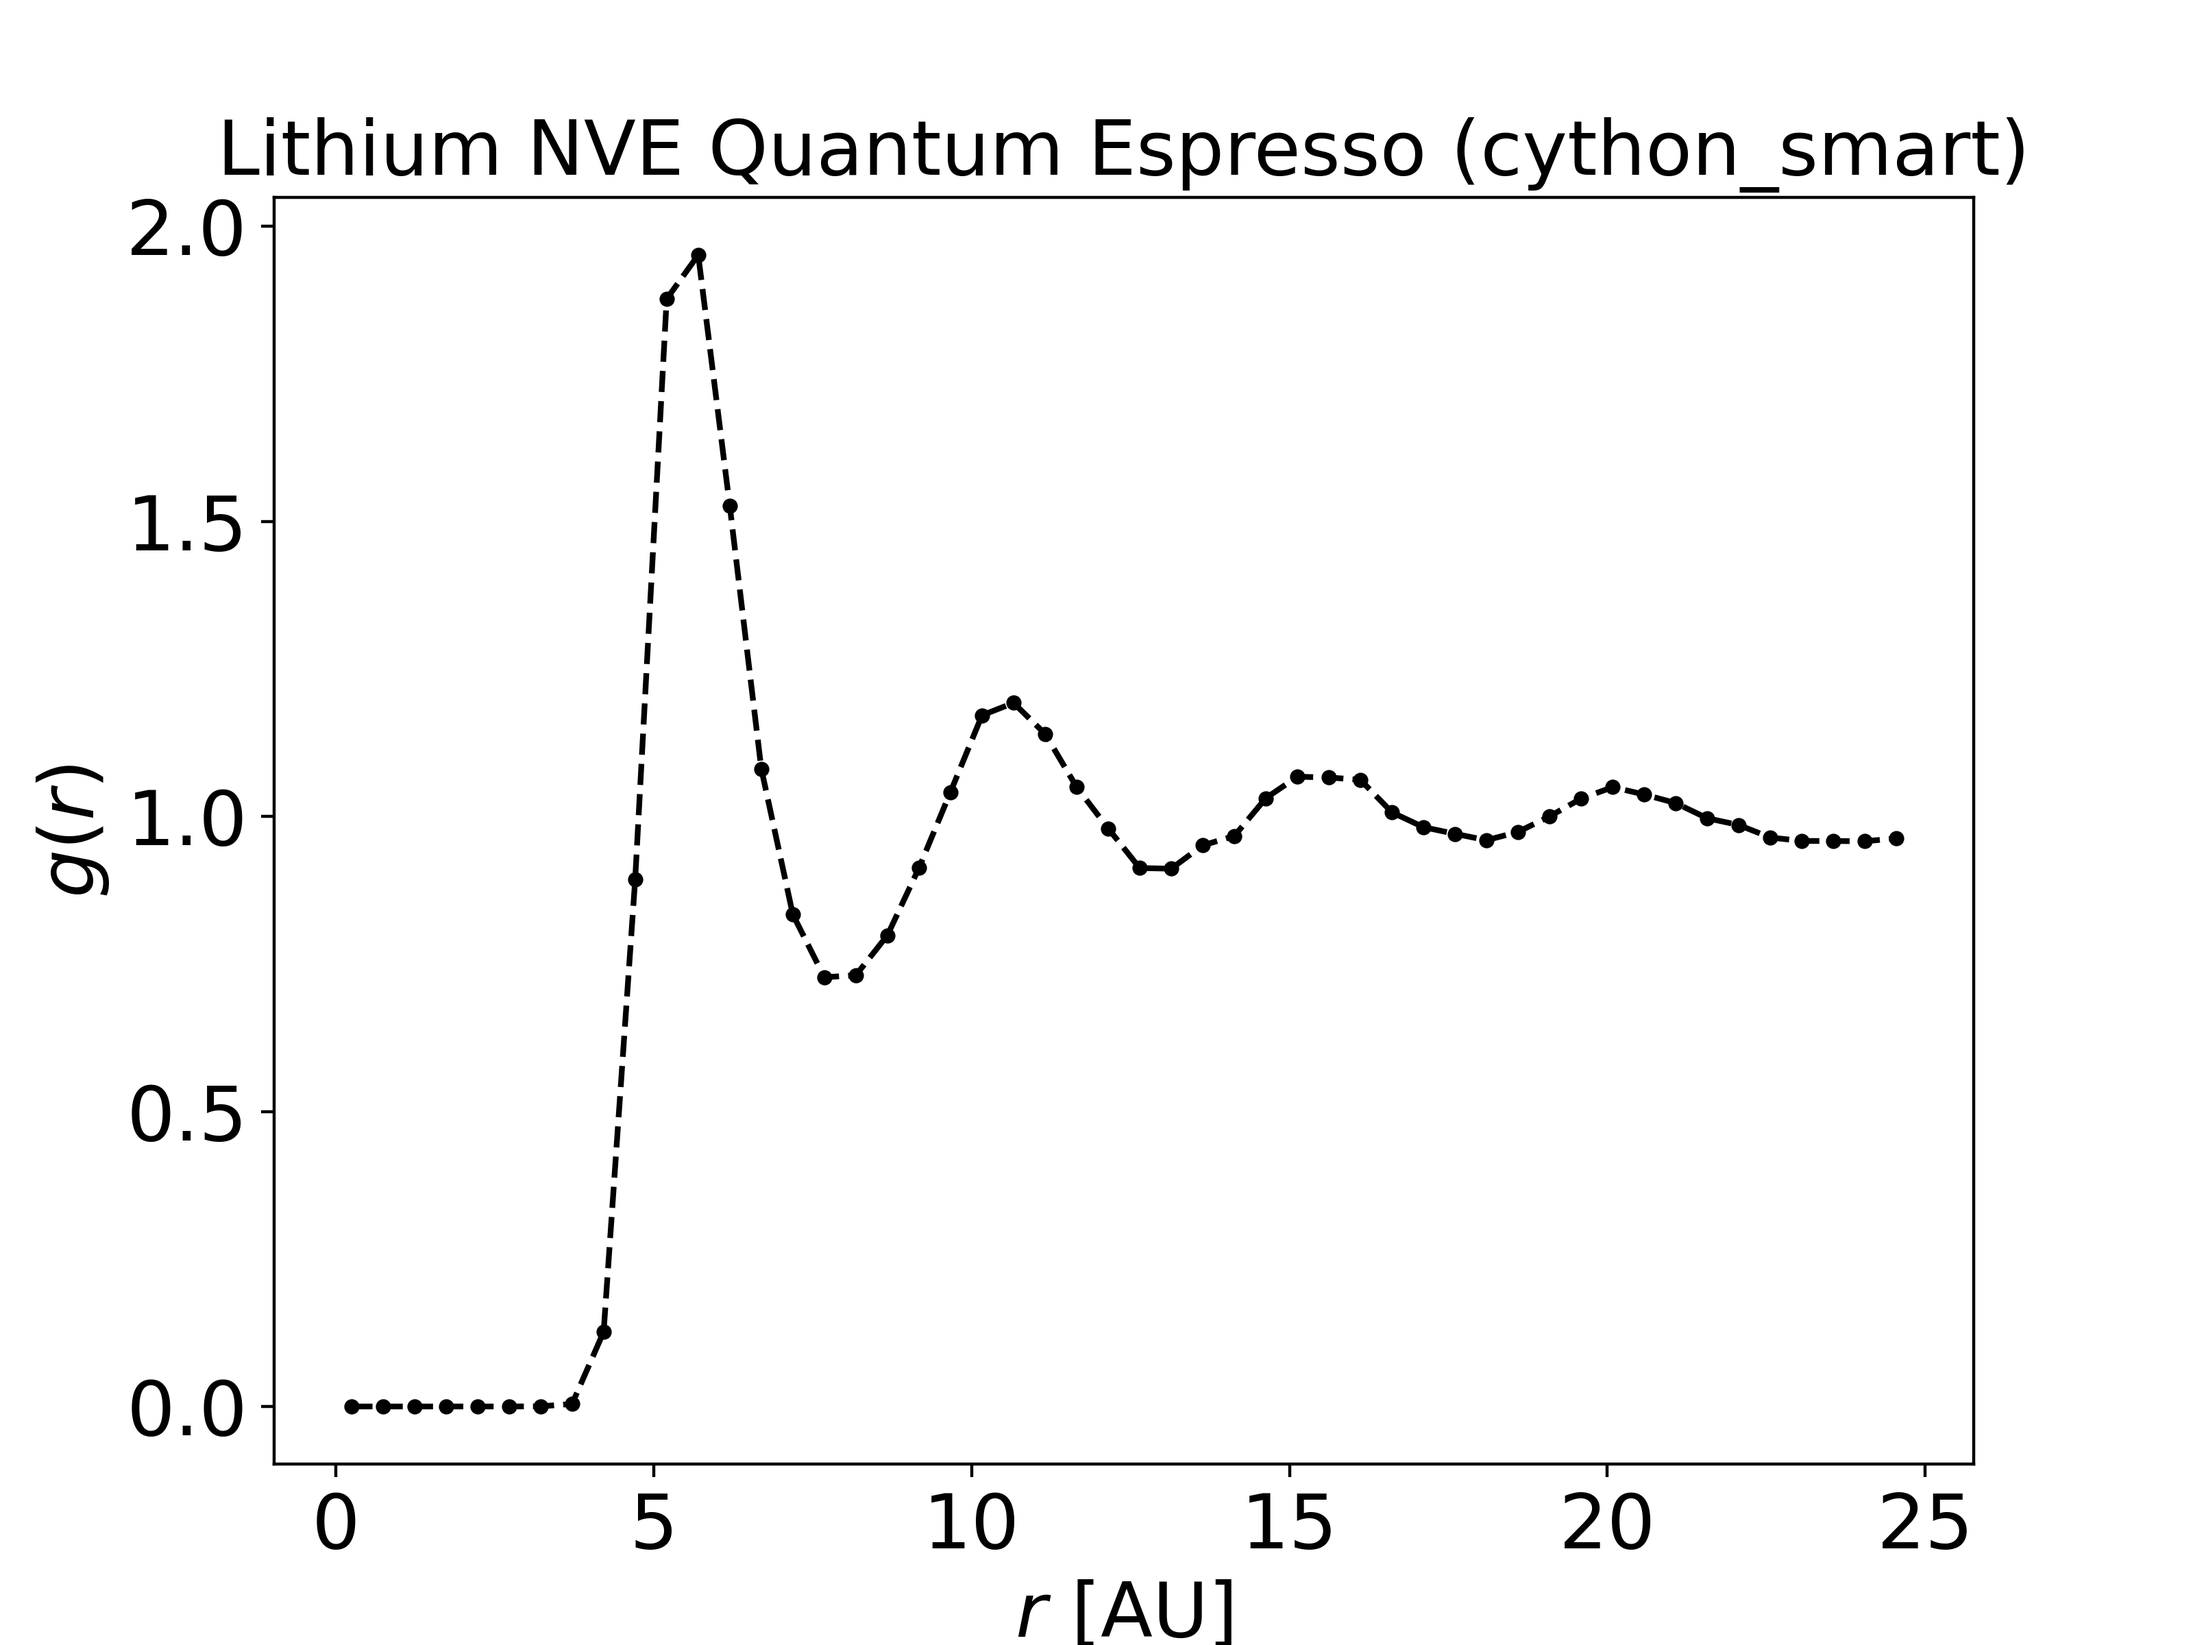
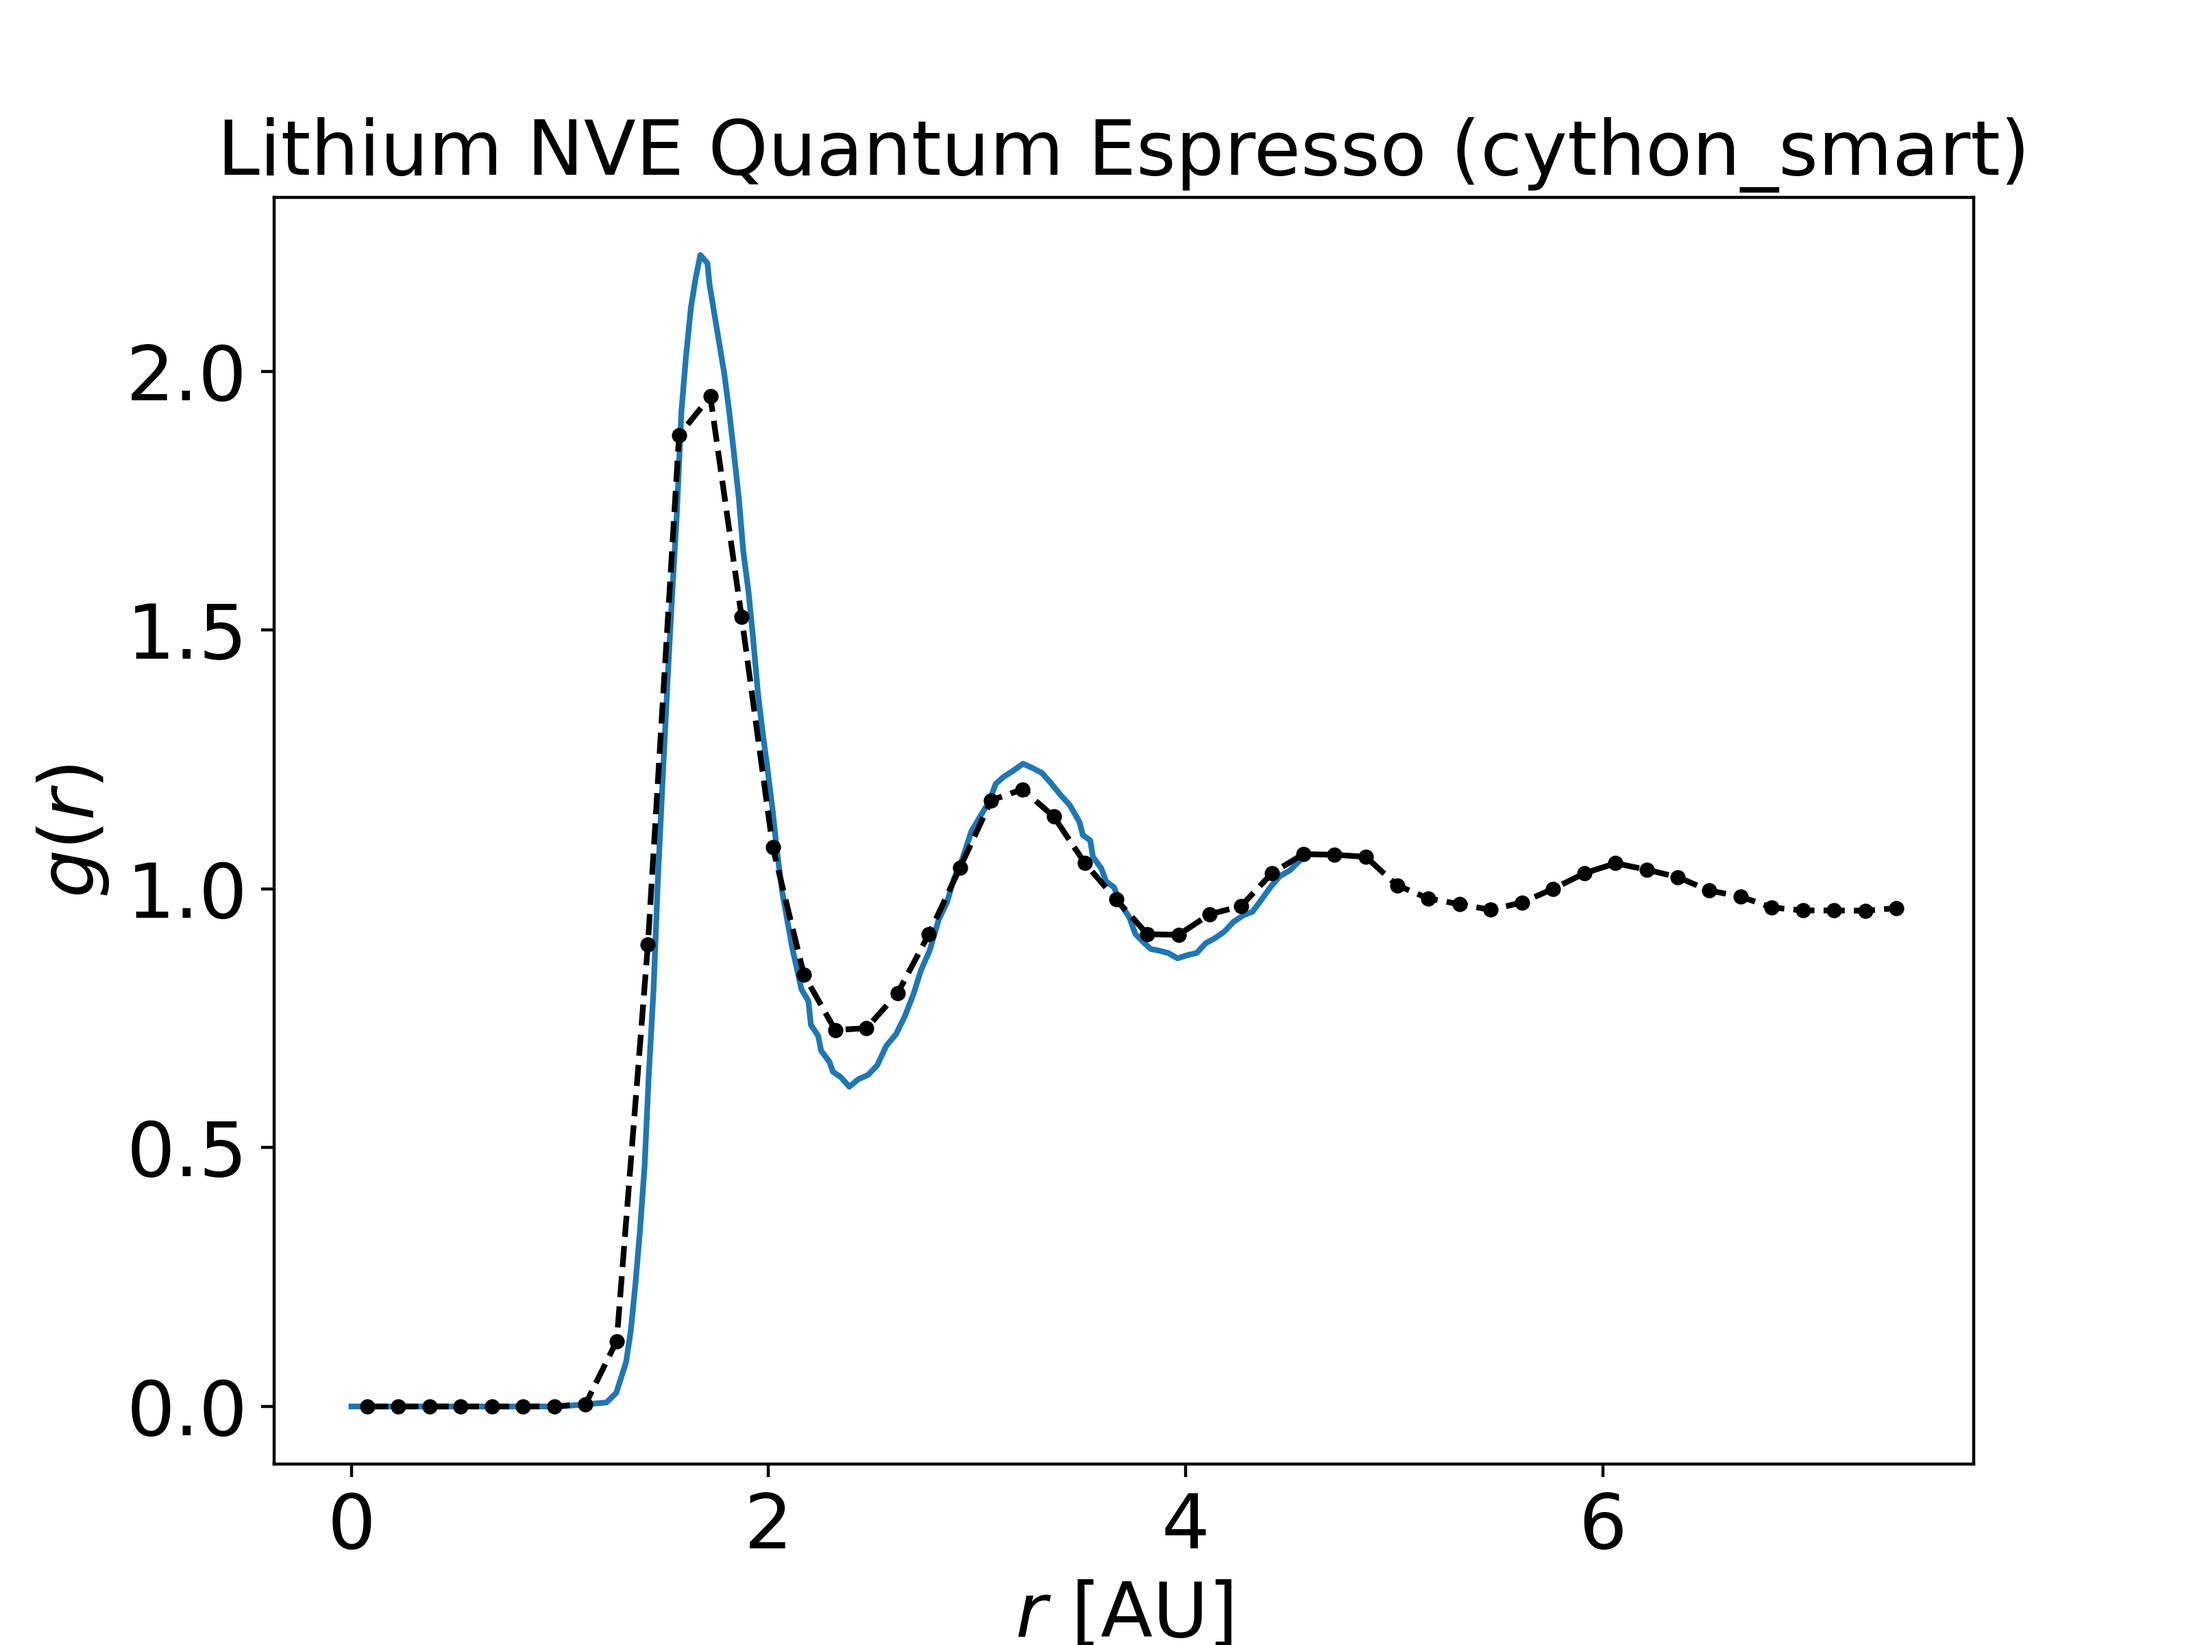
fixed mistake in counting times

diff --git a/pair_distribution_example/numba/numba_gofr.py b/pair_distribution_example/numba/numba_gofr.py
@@ -6,6 +6,7 @@ from numba import njit
 def read_xyz(filename):
     with open(filename, 'r') as file:
         cum_gofr = np.zeros(N_bins)
+        cum_gofr_square = np.zeros(N_bins)
         gofr_list = []
         ni=0 # which particle
         ti=0 # which timepoint
@@ -29,13 +30,16 @@ def read_xyz(filename):
                     gofr = compute_g_of_r_at_t(np.array(atom_positions,dtype=np.float64))
                     gofr_list.append(gofr)
                     cum_gofr += gofr 
+                    cum_gofr_square  += gofr**2
                 ti +=1
             ni += 1
             if ti==num_ti_to_average + num_to_wait:
                 break
     ti_tot = ti-num_to_wait
     print(f"Reached {ti_tot} times")
-    return cum_gofr/(num_ti_to_average)#, gofr_list
+    av_gofr = np.array(cum_gofr/(ti_tot))
+    σ_gofr  = np.sqrt( cum_gofr_square/ti_tot - av_gofr**2 )
+    return av_gofr, σ_gofr
 
 @njit
 def distance(x1, x2, periodic_vec):
@@ -49,9 +53,9 @@ def compute_g_of_r_at_t(positions):
     gofr = np.zeros(N_bins)
     periodic_vec = np.zeros(3)
     
-    for xi in range(3):
-        for yi in range(3):
-            for zi in range(3):
+    for xi in range(N_lattice_numbs):
+        for yi in range(N_lattice_numbs):
+            for zi in range(N_lattice_numbs):
                 nx, ny, nz = lattice_n[xi], lattice_n[yi], lattice_n[zi]
                 for i in range(3):
                     periodic_vec[i] = L * nx * xhat[i] + L * ny * yhat[i] + L * nz * zhat[i]
@@ -71,7 +75,7 @@ def compute_g_of_r_at_t(positions):
 L = 24.7938  # cell length in each direction
 N = 100  # number particles
 n0 = N / L**3  # average density
-N_bins = 50
+N_bins = 100
 r_max = L
 dr = r_max / N_bins
 r_mid_bins = np.zeros(N_bins)
@@ -83,7 +87,8 @@ for i in range(N_bins):
     bin_vols[i] = 4 / 3 * np.pi * ((dr * (i + 1))**3 - (dr * i)**3)
     histogram_to_gofr[i] = N / (N * (N - 1) / 2) / (bin_vols[i] * n0)
 
-lattice_n = np.array([-1, 0, 1])
+lattice_n = np.array([-2,-1, 0,1, 2])
+N_lattice_numbs = len(lattice_n)
 xhat = np.array([1, 0, 0])
 yhat = np.array([0, 1, 0])
 zhat = np.array([0, 0, 1])
@@ -92,5 +97,5 @@ num_ti_to_average = int(float(sys.argv[1]))
 num_to_wait = 100
 
 file = "/home/zach/plasma/hpc_testing/pair_distribution_example/data/Li_054eV_0513gpercc_100.nvt.xyz"
-av_gofr = read_xyz(file)
-np.savetxt("gofr.dat", np.array([r_mid_bins,av_gofr]).T, header="r\t\t\t\tg(r)",comments='')
+av_gofr, σ_gofr = read_xyz(file)
+np.savetxt("gofr.dat", np.array([r_mid_bins,av_gofr,σ_gofr]).T, header="r\t\t\t\tg(r)\t\t\tσ(r)",comments='')

diff --git a/pair_distribution_example/plot_gofr.py b/pair_distribution_example/plot_gofr.py
@@ -1,24 +1,38 @@
 import matplotlib.pyplot as plt
 from pandas import read_csv
+import numpy as np
 
-dir_list = ["numpy","cython_smart","cython_dumb","numba"]
+# dir_list = ["numpy","cython_smart","cython_dumb","numba"]
+dir_list = ["numba"]
+VASP_Luke_data = read_csv("VASP_Luke_data.dat", delim_whitespace=True, header=0)
+ri = 3.3137
 
+colors = plt.rcParams['axes.prop_cycle'].by_key()['color']
 
 for dir in dir_list:
 	data = read_csv(dir+"/gofr.dat", delim_whitespace=True, header=0)
 
 	fig, ax = plt.subplots(figsize=(8,6))
 
+	# Plot Luke data for reference
+	ax.plot(np.array(VASP_Luke_data['r/ri']), np.array(VASP_Luke_data['g(r)']), color='k', label='Luke FM-MD')
 
+	# Plot Quantum Espresso data
 	ax.set_title(f"Lithium NVE Quantum Espresso ({dir})", fontsize=20)
-	ax.plot(data['r'], data['g(r)'], 'k--.')
+	ax.plot(np.array(data['r'])/ri, data['g(r)'],'--',color=colors[0], label=r'QE: $\bar{g}$')
+	# ax.errorbar(np.array(data['r'])/ri, data['g(r)'], yerr=data['σ(r)'])
+	g_minus_σ = np.array(data['g(r)']) - np.array(data['σ(r)'])
+	g_plus_σ  = np.array(data['g(r)']) + np.array(data['σ(r)'])
+	ax.fill_between(np.array(data['r'])/ri, g_minus_σ, g_plus_σ, color=colors[0], alpha=0.2, label=r'QE: $\bar{g} \pm\sigma$')
 
 	ax.set_xlabel(r'$r$ [AU]', fontsize=20)
 	ax.set_ylabel(r'$g(r)$', fontsize=20)
 	ax.tick_params(labelsize=20)
 
 	# ax.set_ylim(0,4)
+	# ax.set_xlim(0,10)
 
+	plt.legend(fontsize=13)
 	plt.savefig(dir+"/Lithium_run_gofr.png", dpi=400)
 	# plt.show()
 

diff --git a/pair_distribution_example/numpy/numpy_gofr.py b/pair_distribution_example/numpy/numpy_gofr.py
@@ -33,7 +33,7 @@ def read_xyz(filename):
 				break
 	ti_tot = ti-num_to_wait
 	print(f"Reached {ti_tot} times")
-	return cum_gofr/(num_ti_to_average)#, gofr_list
+	return cum_gofr/(ti_tot)#, gofr_list
 
 def distance(x1, x2):
 	dist = np.linalg.norm(np.abs(x1-x2), axis=-1)
